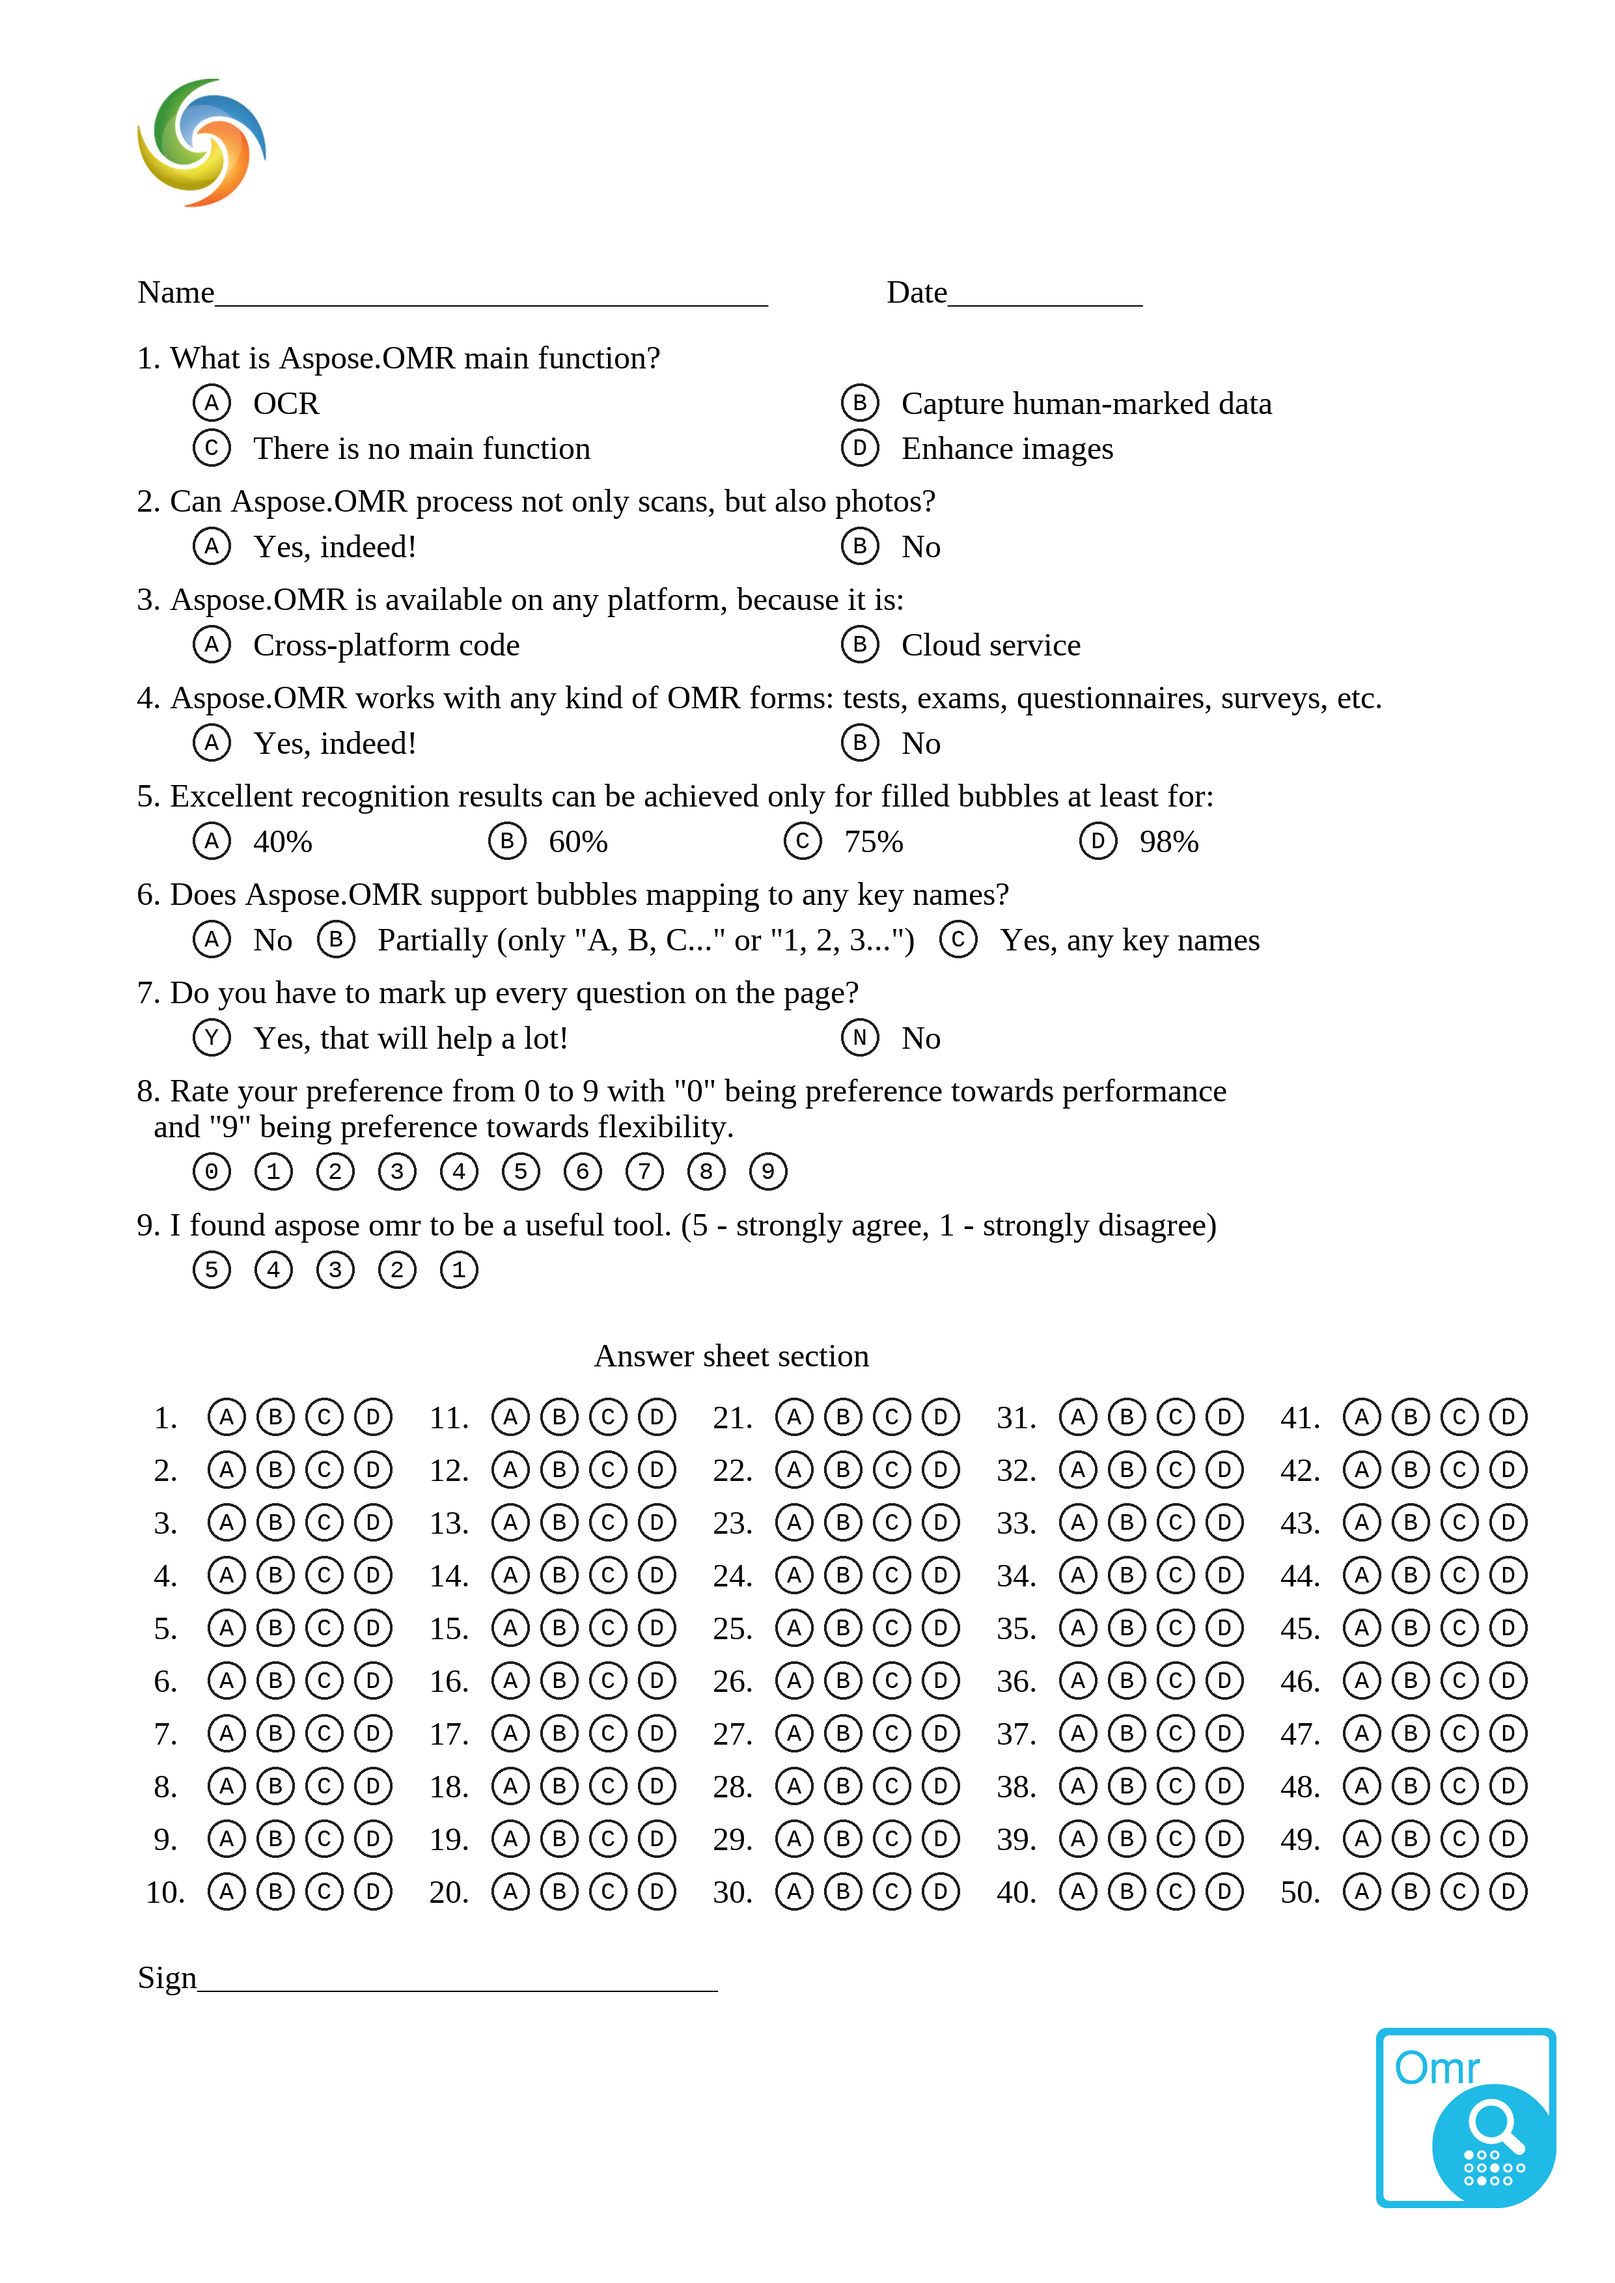
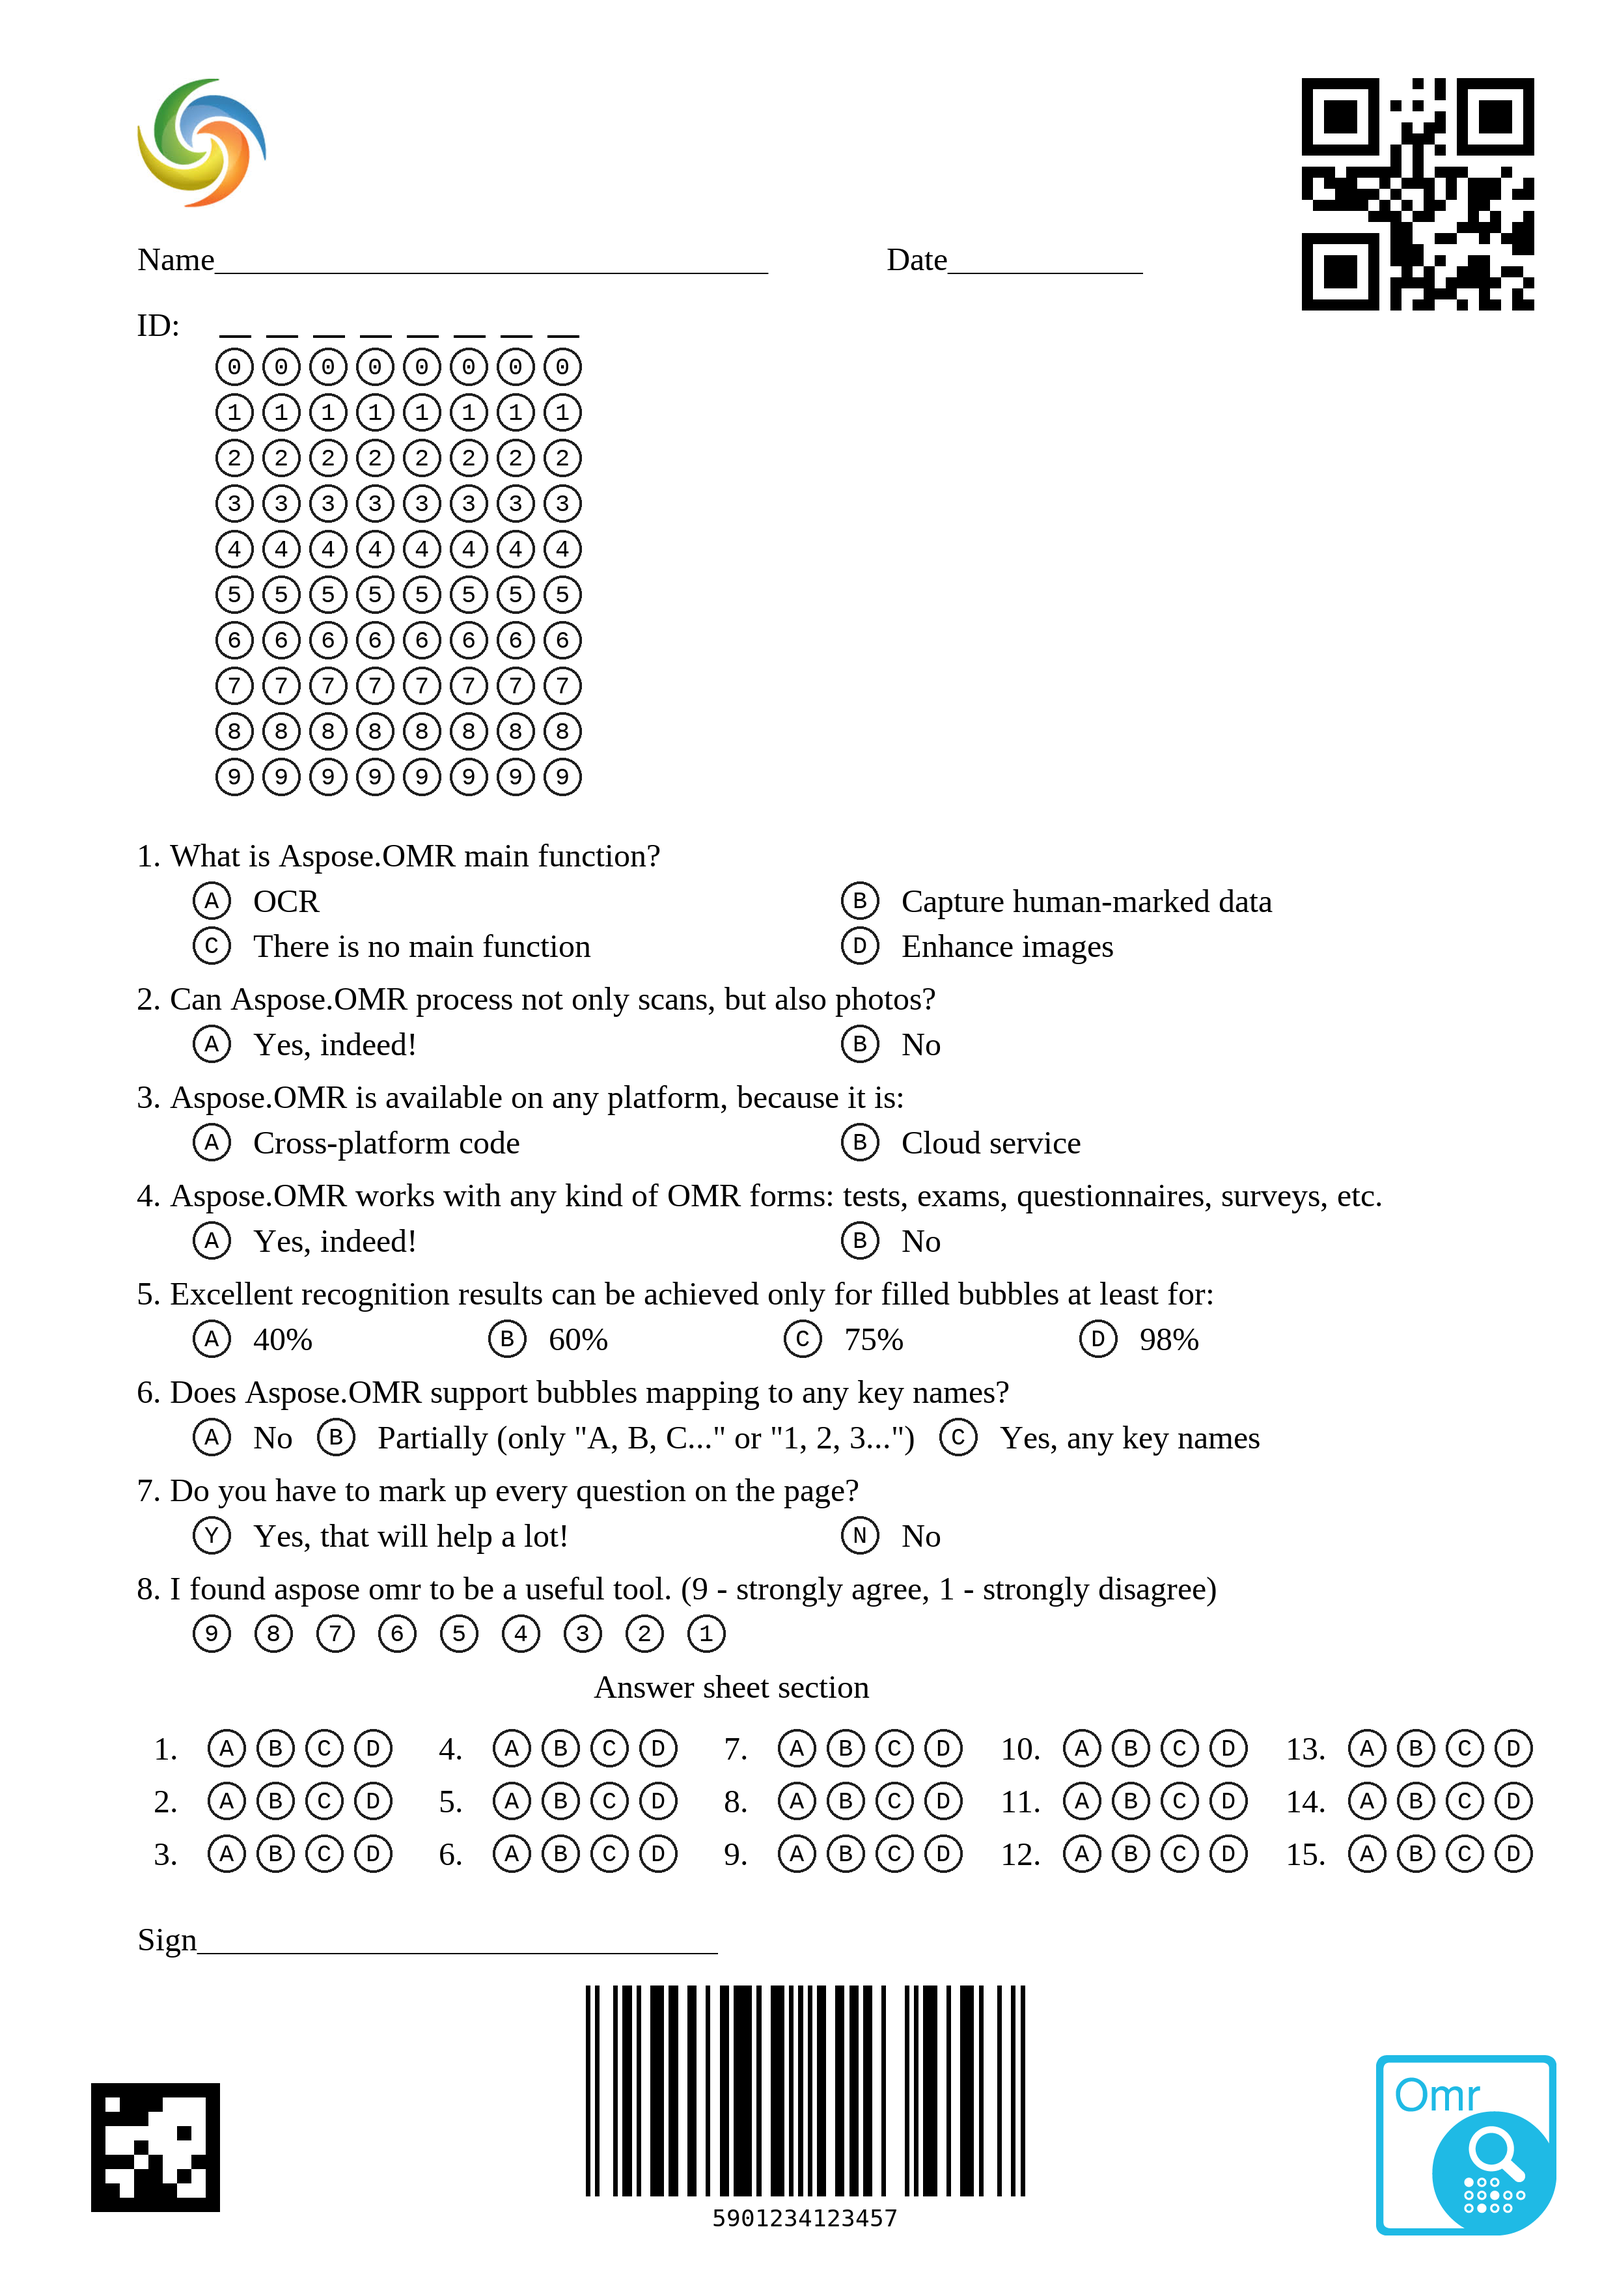
Readme Updates

diff --git a/README.md b/README.md
@@ -1,12 +1,13 @@
+
 <img src="TestData/Demonstration/OmrBanner.png">
 
 
 
 # Aspose.OMR for Cloud
 
-[Aspose.OMR for Cloud](https://products.aspose.cloud/omr/cloud) is a REST API that helps you to perform optical mark recognition in the cloud. You can get [binaries](https://github.com/aspose-omr-cloud/aspose-omr-cloud-dotnet/releases) to **start** working **immediately** and recognize various OMR forms. 
-Developers can embed optical recognition in any type of application to extract data from images of tests, exams, questionnaires, surveys, etc. In the repository you can find examples on how to start using Aspose.OMR API in your project. 
+[Aspose.OMR for Cloud](https://products.aspose.cloud/omr/cloud) is a REST API that helps you to perform optical mark recognition in the cloud. We provide a series of [SDKs](https://github.com/aspose-omr-cloud). Along with that, you can get [binaries](https://github.com/aspose-omr-cloud/aspose-omr-cloud-dotnet/releases) to start working immediately and recognize various OMR forms.
 
+Developers can embed [optical recognition](https://en.wikipedia.org/wiki/Optical_mark_recognition) in any type of application to extract data from images of tests, exams, questionnaires, surveys, etc. In the repository you can find examples on how to start using [Aspose.OMR API](https://docs.aspose.cloud/display/omrcloud/OMR+API+Specification) in your project.
 
 
 ## Contents
@@ -47,7 +48,7 @@ It is quite easy to use OMR in your projects. All you need to do is:
 1. Get [Aspose Cloud](https://dashboard.aspose.cloud/) credentials - App Key and App Sid.
 2. Install Aspose.OMR Cloud SDK via [nuget](https://www.nuget.org/packages/Aspose.OMR-Cloud/).
 3. Use OMR.Client to create templates or use one from [our examples](https://github.com/aspose-omr-cloud/aspose-omr-cloud-dotnet/tree/master/TestData).
-3. Start using [OMR functions](https://docs.aspose.cloud/display/omrcloud/API+Specifications) and get recognition results.
+4. Start using [OMR functions](https://docs.aspose.cloud/display/omrcloud/OMR+API+Specification) and get recognition results.
 
 
 Check [Aspose.OMR.Demo](https://github.com/aspose-omr-cloud/aspose-omr-cloud-dotnet/tree/master/SDK/Aspose.OMR.Demo) solution for a simple demonstration of how OMR functions can be called from your code.
@@ -63,8 +64,10 @@ Simply prepare your questions with our simple markup language. Below you can see
 ?image=LogoImage1.jpg
 	align=left
 
-
 ?text=Name__________________________________              Date____________
+
+?grid=ID
+	sections_count=8
 
 #What is Aspose.OMR main function?
 	() OCR () Capture human-marked data
@@ -75,18 +78,43 @@ Simply prepare your questions with our simple markup language. Below you can see
 	() Cross-platform code () Cloud service
 #Aspose.OMR works with any kind of OMR forms: tests, exams, questionnaires, surveys, etc.
 	() Yes, indeed! () No
-...
-
+#Excellent recognition results can be achieved only for filled bubbles at least for:
+	() 40% () 60% () 75% () 98%
+#Does Aspose.OMR support bubbles mapping to any key names?
+	() No () Partially (only "A, B, C..." or "1, 2, 3...") () Yes, any key names
+#Do you have to mark up every question on the page?
+	(Yes) Yes, that will help a lot! (No) No
+#I found aspose omr to be a useful tool. (9 - strongly agree, 1 - strongly disagree)
+	(9) (8) (7) (6) (5) (4) (3) (2) (1)
 ?text=						Answer sheet section
 
 ?answer_sheet=MainQuestions
-	elements_count=50
+	elements_count=15
 	columns_count=5
 
 ?text=Sign________________________________
 
 ?image=LogoImage2.png
 	align=right
+?barcode=Student_ID
+	value=5901234123457
+	barcode_type=ean13
+	x=900
+	y=3050
+	height=400
+?barcode=AsposeWebsite
+	value=aspose.com
+	barcode_type=qr
+	qr_version=1
+	x=2000
+	y=120
+	height=360
+?barcode=ArucoTest
+	value=53
+	barcode_type=aruco
+	x=140
+	y=3200
+	height=198
 ```
 </sub>
 
@@ -108,8 +136,9 @@ Simply make mobile snapshots or scan filled forms, upload them into OMR.Client o
 In the upcoming releases, we are set to implement a number of new features:
 
  - [X] reduce your expenses by preprocessing and compressing your images;
- - [X] simplify OMR form preparation by introducing an easy markup language. For example, to get the particular survey form ready you only need to provide questions and answers;
- - [ ] present standalone script for batch processing in Python.
+ - [X] simplify OMR form preparation by introducing an easy markup language. For example, to get the particular survey form ready you only need to provide questions and answers; 
+ - [X] support PDF
+ - [X] support barcodes generation and recognition
  - [ ] support diverse interviewee’s marks (ticks, crosses, corrections, etc) on various forms with the use of neural networks;
  
 
@@ -122,8 +151,9 @@ In the upcoming releases, we are set to implement a number of new features:
 + **Website:** [www.aspose.com](https://www.aspose.com/)
 + **Product Home:** [Aspose.OMR for Cloud](https://products.aspose.cloud/omr/cloud)
 + **Documentation:** [Aspose.OMR for Cloud Documentation](https://docs.aspose.cloud/display/omrcloud/Home)
-+ **Cloud Dasboard:** [Aspose Cloud](https://dashboard.aspose.cloud/)
++ **Cloud Dashboard:** [Aspose Cloud](https://dashboard.aspose.cloud/)
 + **Forum:** [Aspose.OMR for Cloud Forum](https://forum.aspose.cloud/c/omr)
 + **Blog:** [Aspose.OMR for Cloud Blog](https://blog.aspose.cloud/category/aspose-products/aspose.omr-product-family/)
 + **Nuget:** [Aspose.OMR-Cloud](https://www.nuget.org/packages/Aspose.OMR-Cloud/)
 + **OMR Client Releases:** [Github Releases](https://github.com/aspose-omr-cloud/aspose-omr-cloud-dotnet/releases)
++ **OMR Client Documentation:** [Aspose.OMR.Client Application](https://docs.aspose.cloud/display/omrcloud/Aspose.OMR.Client+Application)
